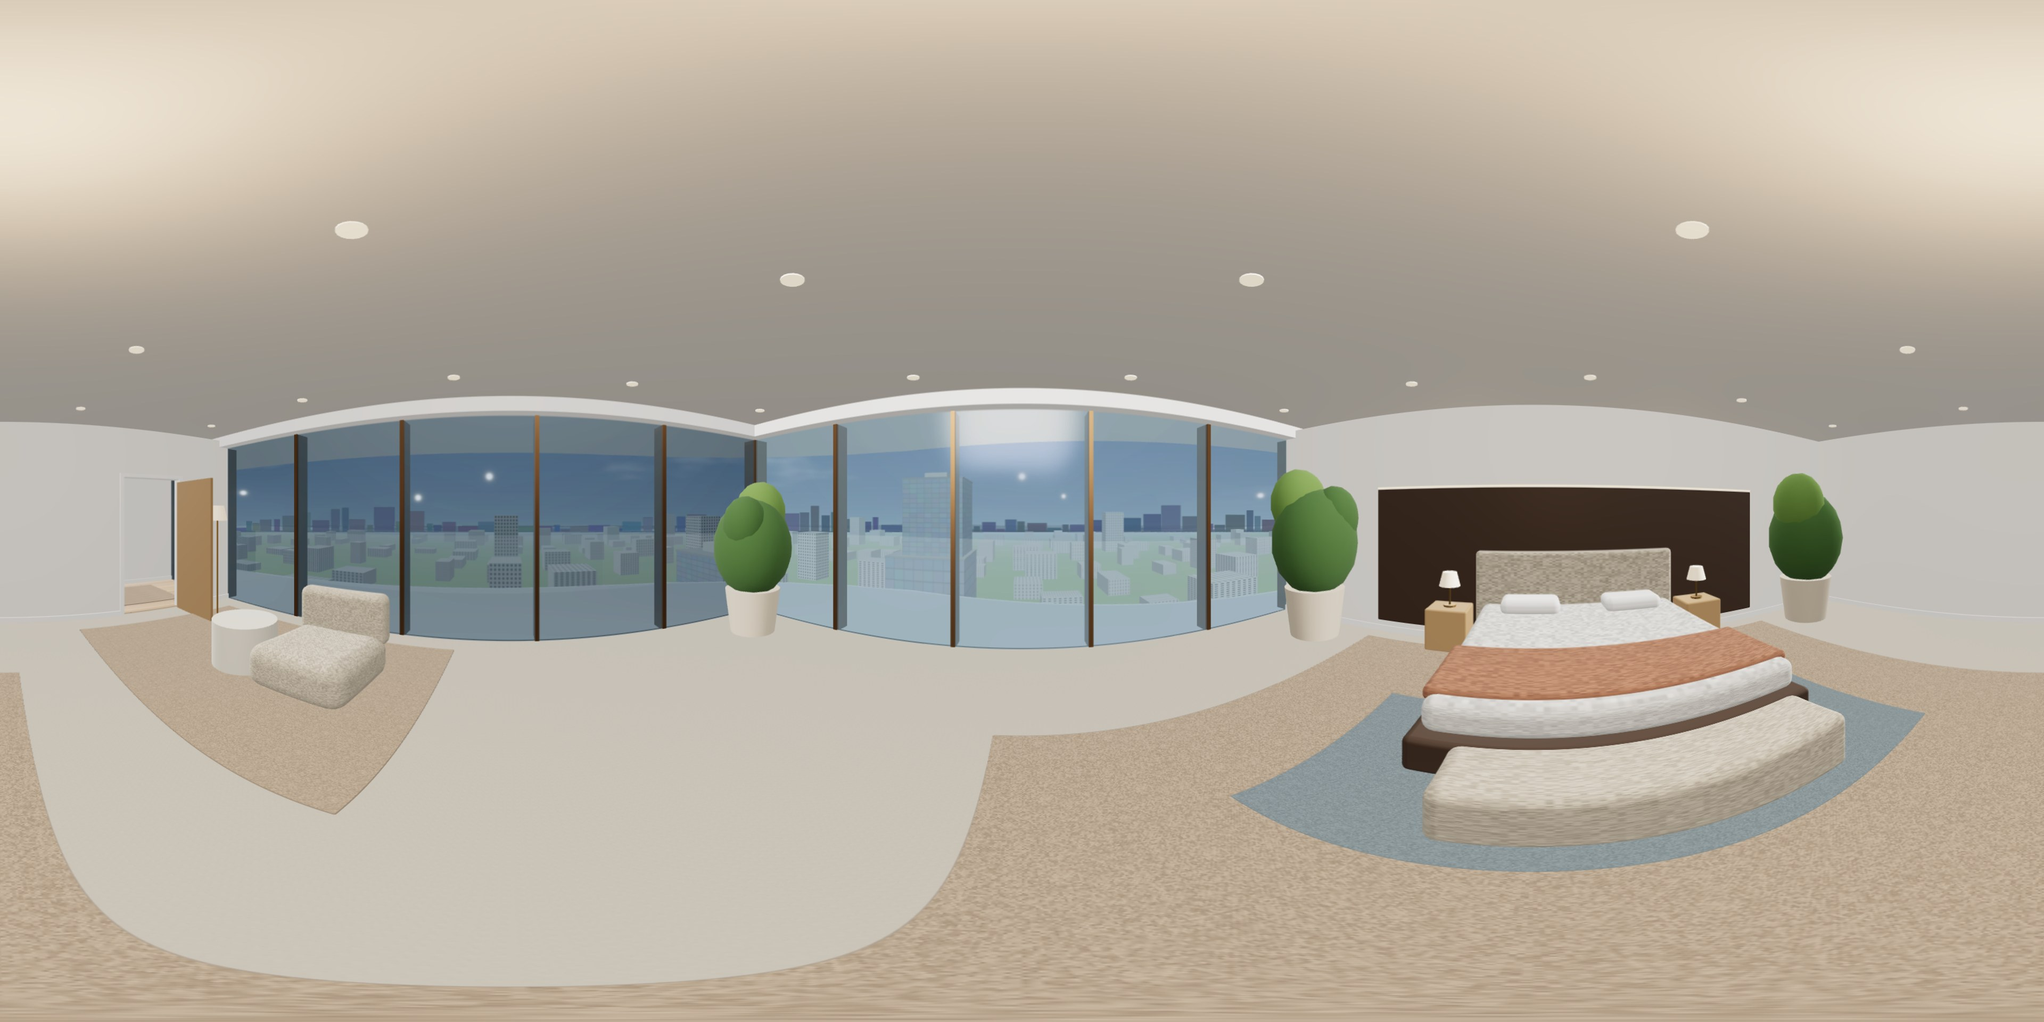
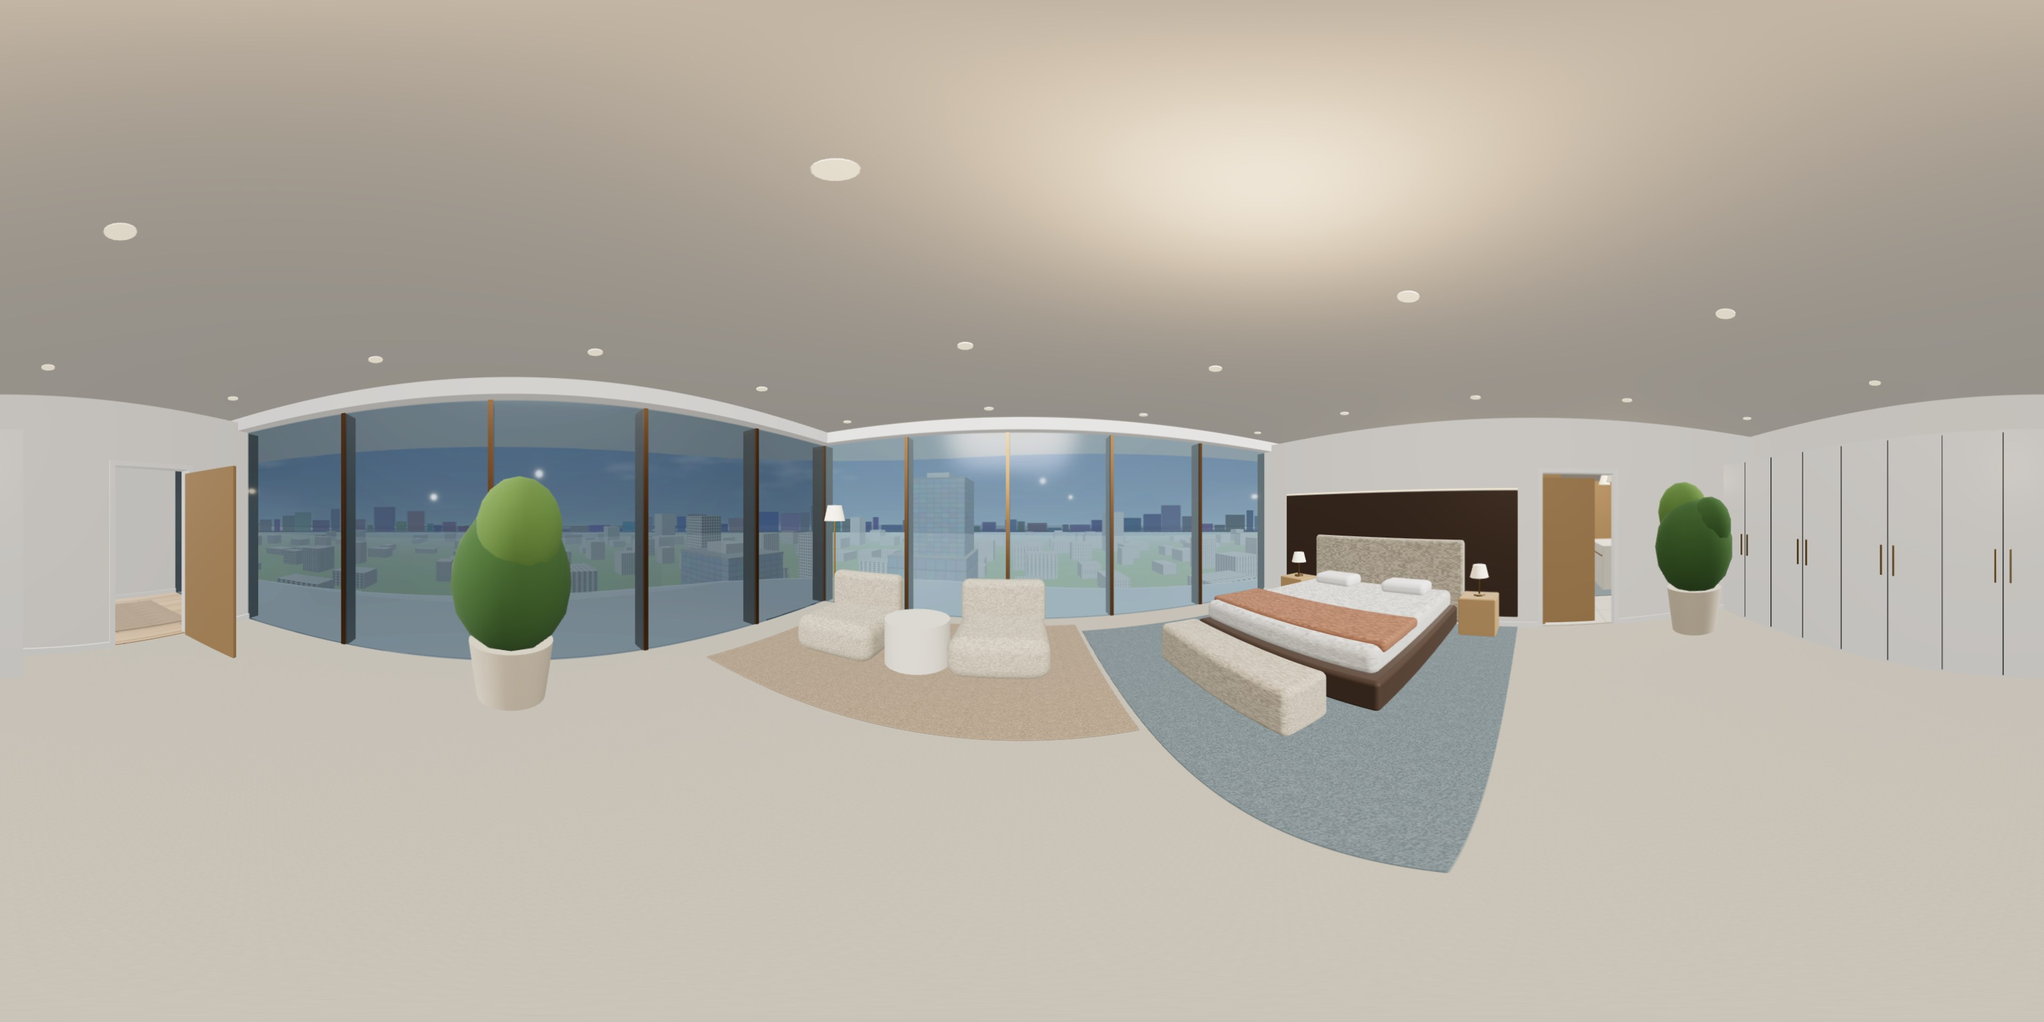
Halden penthouse: main suite flows bedroom to dressing room to bathroom, wardrobes in every bedroom, en-suite gets a walk-in shower, dressing room wardrobes no longer cover the doors (build 25)
Claude-Session: https://claude.ai/code/session_01BZrB8UmtVWgAVMjRzyvFMb

diff --git a/3d/engine.js b/3d/engine.js
@@ -510,7 +510,7 @@ const SOLVE = new Set(['open', 'living', 'kitchen', 'dining', 'bed', 'bath', 'st
 function furnishBest(q, B, segs, rooms, o) {
   const glassZ = []; segs.forEach(g => { if ((g.A === q) === (g.B === q) || (g.A && g.B && !OUTSIDE.has((g.A === q ? g.B : g.A).type))) return; if (g.A && g.B && g.kind !== 'slider') return; const d0 = g.A === q ? g.L - .55 : g.L, d1 = g.A === q ? g.L : g.L + .55; glassZ.push(g.axis === 'x' ? [d0, d1, g.a, g.b] : [g.a, g.b, d0, d1]); });
   const SOFT = new Set(['curtain', 'plant', 'plant2', 'pot', 'flower']);
-  const fixed = !SOLVE.has(q.type) || q.tall || q.look === 'kd' || q.look === 'dress' || q.look === 'spa' || (o.house && o.fi === 0 && q.type === 'hall'), zones = fixed ? [] : doorZones(q, segs);
+  const fixed = !SOLVE.has(q.type) || q.tall || q.look === 'kd' || q.look === 'dress' || q.look === 'spa' || q.look === 'suite' || q.look === 'guest' || q.look === 'ensuite' || (o.house && o.fi === 0 && q.type === 'hall'), zones = fixed ? [] : doorZones(q, segs);
   const tries = fixed ? [{}] : [{}, { swap: 1 }, { flip: 1 }, { flip: 1, swap: 1 }, { face: 'n' }, { face: 'n', flip: 1 }, { face: 's' }, { face: 's', flip: 1 }, { face: 'e' }, { face: 'e', flip: 1 }, { face: 'w' }, { face: 'w', flip: 1 }];
   const real = c => !((c.y1 - c.y0 < .05 && c.y0 < .1) || c.y0 > 2.0);          // not a rug, not something on the ceiling
   let best = null;
@@ -686,6 +686,26 @@ function furnish(q, B, rooms, o) {
       }
       if (U > 6 && V > 6) { rbox('rug', 6, .014, 3.4, U / 2, .007, V / 2, .005); longTable(U / 2, V / 2, 4.4, 12); [-1.4, 0, 1.4].forEach(k => pendant(U / 2 + k, V / 2, .55, .2)); rbox('darkWood', 3.2, .8, .45, U / 2, .4, V - .26, .02); artBack(U / 2, 2.4, 1.2, 1); plant(.6, .6, 1.4); return; } longTable(U / 2, V / 2, Math.min(2.2, U - 1), U < 3.4 ? 4 : 6); beams(); return; }
     case 'bed': {
+      const bedAt = (side, vc, bw, bl = 2.1) => { const hu = side ? U : 0, g = side ? -1 : 1, cu = hu + g * (.14 + bl / 2);          // headboard on a side wall
+        rbox('fabric', .12, 1.15, bw + .3, hu + g * .07, .62, vc, .05); rbox('darkWood', bl + .06, .28, bw + .12, cu, .16, vc, .04); rbox('linen', bl - .08, .24, bw, cu, .42, vc, .08); rbox('throw_', .7, .1, bw + .04, hu + g * (.14 + bl - .5), .52, vc, .04);
+        [-1, 1].forEach(k => { rbox('white', .36, .16, .6, hu + g * .45, .6, vc + k * bw / 4, .07); const sv = vc + k * (bw / 2 + .38); rbox('oak', .4, .5, .46, hu + g * .27, .25, sv, .02); cyl('brass', .07, .02, hu + g * .27, .51, sv); box('brass', .015, .26, .015, hu + g * .27, .64, sv); cyl('lampShade', .12, .16, hu + g * .27, .82, sv, .08); });
+        rbox('fabric', .42, .42, bw * .8, hu + g * (.14 + bl + .42), .22, vc, .06); rbox('rug2', bl + 1.3, .012, bw + 1.7, hu + g * (bl / 2 + .7), .006, vc, .005); };
+      const wardU = (u0, u1, back) => { const L = u1 - u0, wv = back ? V - .31 : .31, fv = back ? V - .604 : .604; box('white', L, 2.3, .58, (u0 + u1) / 2, 1.15, wv); const n = Math.round(L / .55); for (let k = 1; k < n; k++) box('black', .006, 2.25, .006, u0 + k * L / n, 1.15, fv); for (let k = 0; k < n; k++) box('brass', .014, .3, .014, u0 + (k + (k % 2 ? .12 : .88)) * L / n, 1.1, back ? fv - .012 : fv + .012); };
+      const wardV = (v0, v1, side) => { const L = v1 - v0, wu = side ? U - .31 : .31, fu = side ? U - .604 : .604; box('white', .58, 2.3, L, wu, 1.15, (v0 + v1) / 2); const n = Math.round(L / .55); for (let k = 1; k < n; k++) box('black', .006, 2.25, .006, fu, 1.15, v0 + k * L / n); for (let k = 0; k < n; k++) box('brass', .014, .3, .014, side ? fu - .012 : fu + .012, 1.1, v0 + (k + (k % 2 ? .12 : .88)) * L / n); };
+      if (q.look === 'suite') {          // principal bedroom: bed on the solid east wall looking at the glass, a wall of wardrobes on the hall wall, two chairs in the glass corner
+        box('darkWood', .06, 1.7, 3.8, U - .04, 1.0, 2.5); box('led', .02, .02, 3.8, U - .06, 1.87, 2.5); bedAt(1, 2.5, 2.1, 2.2);
+        wardU(3.0, U - .08, 1);
+        rbox('fabric', .9, .42, .9, 1.4, .23, 1.5, .14); rbox('fabric', .9, .5, .2, 1.4, .58, 1.1, .08); rbox('fabric', .9, .42, .9, 3.0, .23, 1.5, .14); rbox('fabric', .9, .5, .2, 3.0, .58, 1.1, .08); cyl('stone', .32, .5, 2.2, .25, 1.6); rbox('rug', 3.4, .012, 2.4, 2.2, .006, 1.55, .005); cyl('brass', .012, 1.5, .7, .75, .75); cyl('lampShade', .15, .22, .7, 1.55, .75, .1);
+        plant(U - .6, 6.6, 1.4); plant(.7, 4.6, 1.3);
+        return;
+      }
+      if (q.look === 'guest') {          // guest bedroom: bed on the solid west wall, wardrobes along the east wall clear of the en-suite door, a dressing table on the hall wall, a chair by the glass
+        bedAt(0, 4.0, 1.8);
+        wardV(2.4, 6.25, 1);
+        rbox('oak', 1.5, .78, .45, 3.9, .39, V - .26, .02); box('mirror', .9, 1.0, .02, 3.9, 1.5, V - .03); rbox('fabric', .45, .42, .45, 3.9, .22, V - .95, .1);
+        rbox('fabric', .8, .4, .8, 1.5, .22, 1.25, .12); rbox('fabric', .8, .5, .18, 1.5, .6, .9, .08); cyl('oak', .2, .5, 2.35, .25, 1.15); floorLamp(.6, .7); plant(3.6, .7, 1.2);
+        return;
+      }
       const bw = U > 6 ? 2.1 : U > 3.3 ? 1.65 : 1.4, bl = U > 6 ? 2.2 : 2.05, bu = U / 2, bv = V - bl / 2 - .12;
       rbox('darkWood', bw + .12, .28, bl + .06, bu, .16, bv, .04); rbox('linen', bw, .24, bl - .08, bu, .42, bv, .08); rbox('throw_', bw + .04, .1, .7, bu, .52, bv - bl / 2 + .5, .04);
       rbox('fabric', bw + .2, 1.05, .12, bu, .6, V - .07, .05); rbox('white', .6, .16, .36, bu - bw / 4, .6, V - .42, .07); rbox('white', .6, .16, .36, bu + bw / 4, .6, V - .42, .07);
@@ -706,6 +726,12 @@ function furnish(q, B, rooms, o) {
       return;
     }
     case 'bath': {
+      if (q.look === 'ensuite') {          // en-suite shower room: door on the west wall by the window, WC and vanity along the east wall, a full-width walk-in shower across the far end
+        box('white', U - .04, .05, 1.2, U / 2, .03, V - .6); box('glass', 1.55, 2.05, .02, U - .78, 1.03, V - 1.2); box('metal', .25, .02, .25, U / 2 + .3, Hc - .12, V - .6); cyl('brass', .015, 1.1, U - .08, 1.3, V - .6);
+        rbox('oak', .46, .5, 1.2, U - .25, .55, 2.0, .02); rbox('stone', .5, .05, 1.24, U - .25, .83, 2.0, .02); rbox('white', .34, .05, .5, U - .25, .875, 2.0, .04); cyl('brass', .014, .2, U - .08, .96, 2.0); box('mirror', .02, 1.0, 1.0, U - .03, 1.6, 2.0);
+        rbox('white', .58, .4, .38, U - .31, .2, .7, .08); box('brass', .02, 1.0, .5, .04, 1.2, 2.1); rbox('linen', .03, .5, .44, .07, 1.0, 2.1, .01); rbox('rug2', .6, .012, .9, 1.55, .006, 2.0, .005);
+        return;
+      }
       if (U * V > 14) {          // a principal bathroom: tub by the window on a stone plinth, double vanity on the back wall, walk-in shower at one end
         rbox('stone', 2.4, .06, 1.35, U / 2, .03, 1.15, .02); rbox('white', 1.8, .58, .85, U / 2, .35, 1.15, .3); cyl('brass', .02, .95, U / 2 + 1.05, .475, 1.15); rbox('oak', .4, .45, .4, U / 2 - 1.45, .23, 1.15, .04); rbox('linen', .32, .08, .3, U / 2 - 1.45, .5, 1.15, .02);
         const vl = Math.min(2.6, U - 2.4); rbox('oak', vl, .5, .5, U / 2, .55, V - .28, .02); rbox('stone', vl + .04, .06, .52, U / 2, .83, V - .28, .02);
@@ -734,11 +760,11 @@ function furnish(q, B, rooms, o) {
       return;
     }
     case 'utility': {
-      if (q.look === 'dress') {          // dressing room: full-height oak wardrobes on both long walls, clear of the door, a stone island and a long mirror on the end wall
-        const L = U - 1.3, lc = 1.2 + L / 2;
-        [V - .31, .31].forEach(v => { box('oak', L, 2.4, .6, lc, 1.2, v); for (let k = 1; k < L / .6; k++) box('black', .004, 2.3, .62, 1.2 + k * .6 - L / 2 + L / 2, 1.2, v); box('led', L, .02, .02, lc, 2.42, v); });
-        rbox('stone', 1.5, .9, .55, lc + .2, .45, V / 2, .02); box('brass', 1.4, .02, .02, lc + .2, .7, V / 2 - .28); rbox('rug2', 2.2, .012, 1.2, lc + .2, .006, V / 2, .005);
-        box('mirror', .03, 1.9, .8, U - .03, 1.1, V / 2); pendant(lc - .2, V / 2, .45, .14); pendant(lc + .6, V / 2, .45, .14);
+      if (q.look === 'dress') {          // dressing room between the bedroom (west door) and the bathroom (north door, west end): oak wardrobes in a U round the other three sides, a stone island, a long mirror by the bedroom door
+        const run = (L, cu, cv, alongU) => { box('oak', alongU ? L : .6, 2.4, alongU ? .6 : L, cu, 1.2, cv); const n = Math.round(L / .6); for (let k = 1; k < n; k++) alongU ? box('black', .005, 2.3, .62, cu - L / 2 + k * L / n, 1.2, cv) : box('black', .62, 2.3, .005, cu, 1.2, cv - L / 2 + k * L / n); };
+        run(U - .2, U / 2, V - .31, 1); run(2.8, 3.0, .31, 1); run(V - 1.22, U - .31, V / 2, 0); box('led', U - .2, .02, .02, U / 2, 2.42, V - .31); box('led', 2.8, .02, .02, 3.0, 2.42, .31);
+        rbox('stone', 1.6, .9, .6, 2.7, .45, V / 2, .02); box('brass', 1.5, .02, .02, 2.7, .7, V / 2 - .31); rbox('rug2', 2.4, .012, 1.3, 2.7, .006, V / 2, .005);
+        box('mirror', .03, 1.9, .8, .03, 1.1, 2.4); pendant(2.3, V / 2, .45, .14); pendant(3.1, V / 2, .45, .14);
         return;
       }
       if (U > 1.1 && V > 1) { const L = Math.min(U - .12, 1.9); box('white', L, .88, .6, L / 2 + .06, .44, V - .32); box('worktop', L + .02, .04, .62, L / 2 + .06, .9, V - .32); box('white', L, .6, .34, L / 2 + .06, 1.9, V - .19); } return; }

diff --git a/3d/pano/index.html b/3d/pano/index.html
@@ -63,12 +63,12 @@ const SPOTS = {
   bar:     { name: 'Bar',        pos: [6.5, 83.5, -1.0],    photo: CF + '985c48cb-13fe-46dc-855d-df84631a0154.jpg', face: [8, 83.5, -3.5],    links: [['pool', 'Up to the pool'], ['terrace', 'Terrace'], ['spa', 'Roof spa']] },
   pool:    { name: 'Pool',       pos: [7.4, 84.85, 4.95],   photo: CF + '651dd615-0938-4a2b-a031-b3d847ed0803.jpg', face: [14, 84.85, 7],     links: [['bar', 'Down to the bar'], ['terrace', 'Terrace']] },
   dining:  { name: 'Kitchen',    pos: [1.2, 80.35, 6.2],    photo: CF + 'fccb0113-0925-4a88-805f-183ca1834768.jpg', face: [-1, 80.35, 2],     links: [['gr', 'Great room'], ['b2', 'Bedroom 2'], ['b3', 'Bedroom 3']] },
-  b1:      { name: 'Main bedroom', pos: [-11.25, 80.35, -5.5], photo: CF + '8901c15e-58f6-41d3-bed5-e23b371d26c9.jpg', face: [-8, 80.35, -7],  links: [['bath', 'Bathroom'], ['dress', 'Dressing room'], ['gr', 'Great room']] },
+  b1:      { name: 'Main bedroom', pos: [-11.8, 80.35, -4.4], photo: CF + '8901c15e-58f6-41d3-bed5-e23b371d26c9.jpg', face: [-8, 80.35, -7],  links: [['bath', 'Bathroom'], ['dress', 'Dressing room'], ['gr', 'Great room']] },
   bath:    { name: 'Bathroom',   pos: [-5, 80.35, -6.5],    photo: CF + '0052796b-0f12-4358-8285-468d466acd0d.jpg', face: [-3, 80.35, -8],    links: [['b1', 'Main bedroom'], ['dress', 'Dressing room']] },
   dress:   { name: 'Dressing room', pos: [-6.7, 80.35, -2.75], photo: CF + 'bfc8a432-0720-4efe-9d4a-7085c0193f24.jpg', face: [-3.5, 80.35, -2.75], links: [['b1', 'Main bedroom'], ['bath', 'Bathroom']] },
-  b2:      { name: 'Bedroom 2',  pos: [5.5, 80.35, -5],     photo: CF + 'b22b2e5f-e98c-451a-8fa8-bfcd052d28f8.jpg', face: [7, 80.35, -8],     links: [['bath2', 'Shower room'], ['b3', 'Bedroom 3'], ['dining', 'Kitchen']] },
+  b2:      { name: 'Bedroom 2',  pos: [6.4, 80.35, -6.0],     photo: CF + 'b22b2e5f-e98c-451a-8fa8-bfcd052d28f8.jpg', face: [7, 80.35, -8],     links: [['bath2', 'Shower room'], ['b3', 'Bedroom 3'], ['dining', 'Kitchen']] },
   b3:      { name: 'Bedroom 3',  pos: [13.6, 80.35, -2.2],  photo: CF + 'bf404078-fe54-4e49-806e-ceedb2c1117c.jpg', face: [12, 80.35, -7],    links: [['b2', 'Bedroom 2'], ['dining', 'Kitchen']] },
-  bath2:   { name: 'Shower room', pos: [9.75, 80.35, -7],   photo: CF + '21d890b7-fbb8-43b7-9607-f33197c2a2bd.jpg', face: [9.75, 80.35, -9], links: [['b2', 'Bedroom 2']] },
+  bath2:   { name: 'Shower room', pos: [9.5, 80.35, -7.3],   photo: CF + '21d890b7-fbb8-43b7-9607-f33197c2a2bd.jpg', face: [9.75, 80.35, -9], links: [['b2', 'Bedroom 2']] },
   spa:     { name: 'Roof spa',   pos: [10.5, 83.5, -6.5],   photo: CF + '03376625-803e-4295-9058-67169ea97d2c.jpg', face: [5, 83.5, -6.5],   links: [['landing', 'Landing'], ['bar', 'The bar']] },
   garden:  { name: 'Fire pit',   pos: [-9, 83.5, -4],       photo: CF + '282c1fd5-9681-4de8-b449-229f3af96079.jpg', face: [-11, 83.5, -2.5],    links: [['landing', 'Landing'], ['terrace', 'Terrace']] },
 };

diff --git a/3d/buildings.js b/3d/buildings.js
@@ -62,8 +62,8 @@ export function tower() {
     r('core', 'core', -2.5, -9, 5, 8, { name: 'Private lift and stairs' }),
     pq('hall', 'hall', -15, -1, 30, 2, 'Gallery'),
     pq('liv', 'open', -15, 1, 12, 8, 'Great room', { tall: true }), pq('dining', 'dining', -3, 1, 12, 8, 'Kitchen and dining', { look: 'kd' }), pq('cinema', 'living', 9, 1, 6, 8, 'Cinema', { look: 'cinema' }),
-    pq('b1', 'bed', -15, -9, 7.5, 8, 'Main bedroom'), pq('bath', 'bath', -7.5, -9, 5, 4.5, 'Main bathroom'), pq('dress', 'utility', -7.5, -4.5, 5, 3.5, 'Dressing room', { look: 'dress' }),
-    pq('b2', 'bed', 2.5, -9, 6, 8, 'Bedroom 2'), pq('bath2', 'bath', 8.5, -9, 2.5, 4, 'Bathroom 2'), pq('laundry', 'utility', 8.5, -5, 2.5, 4, 'Laundry'), pq('b3', 'bed', 11, -9, 4, 8, 'Bedroom 3'),
+    pq('b1', 'bed', -15, -9, 7.5, 8, 'Main bedroom', { look: 'suite' }), pq('bath', 'bath', -7.5, -9, 5, 4.5, 'Main bathroom'), pq('dress', 'utility', -7.5, -4.5, 5, 3.5, 'Dressing room', { look: 'dress' }),
+    pq('b2', 'bed', 2.5, -9, 6, 8, 'Bedroom 2', { look: 'guest' }), pq('bath2', 'bath', 8.5, -9, 2.5, 4, 'Shower room', { look: 'ensuite' }), pq('laundry', 'utility', 8.5, -5, 2.5, 4, 'Laundry'), pq('b3', 'bed', 11, -9, 4, 8, 'Bedroom 3'),
   ];
   const sky26 = () => [
     r('core', 'core', -2.5, -9, 5, 8, { name: 'Private lift and stairs' }),
@@ -130,7 +130,7 @@ export function tower() {
   return {
     key: 'tower', name: 'Halden Tower', place: 'Central Milton Keynes',
     blurb: '26 storeys wrapped in rippling white balconies, no two floors the same. 115 apartments, four penthouses and one home across the top two levels.',
-    style: 'glass', story: { floor: 25, room: '25.03-liv', hours: [[0, 7.5], [.136, 12], [.26, 17.5], [.33, 19.5], [.434, 21.5], [.5, 30.75], [.6, 33], [.72, 37], [.81, 40.5], [.895, 43.4], [.965, 44.25], [1, 45.5]] }, props: '/3d/props/halden_props.glb', wallKind: { '25.03-dining|25.03-liv': 'none', '25.03-stairtop|25.03-void': 'none' }, autoDoor: ['25.03-poolwalk|25.03-stairtop'], doorAt: { '25.03-hall|25.03-liv': 0.88, '25.03-dining|25.03-hall': 0.08 }, floorH: H, size: [W, D], floors, units,
+    style: 'glass', story: { floor: 25, room: '25.03-liv', hours: [[0, 7.5], [.136, 12], [.26, 17.5], [.33, 19.5], [.434, 21.5], [.5, 30.75], [.6, 33], [.72, 37], [.81, 40.5], [.895, 43.4], [.965, 44.25], [1, 45.5]] }, props: '/3d/props/halden_props.glb', wallKind: { '25.03-b1|25.03-dress': 'door', '25.03-dress|25.03-hall': 'solid', '25.03-dining|25.03-liv': 'none', '25.03-stairtop|25.03-void': 'none' }, autoDoor: ['25.03-poolwalk|25.03-stairtop'], doorAt: { '25.03-bath|25.03-dress': .12, '25.03-hall|25.03-liv': 0.88, '25.03-dining|25.03-hall': 0.08 }, floorH: H, size: [W, D], floors, units,
     site: { kind: 'city', water: false, park: 's' },
     roof: 'crown', startHour: 18.5,
     spec: {

diff --git a/offplan/dev.js b/offplan/dev.js
@@ -1,6 +1,6 @@
 // Off-plan development page. One template for any development: a tower, a block of flats or a single house.
 // Plans and homes come from /3d/buildings.js, words and pictures from content.js, and the 3D model opens on tap.
-import * as BUILD from '/3d/buildings.js?v=24';
+import * as BUILD from '/3d/buildings.js?v=25';
 import { CONTENT } from './content.js?v=8';
 
 const OUT = new Set(['balcony', 'terrace']), SHARED = new Set(['corridor', 'lobby', 'core']);
@@ -29,7 +29,7 @@ export function mount(key) {
       <iframe class="story-frame" title="${esc(D.name)} being built as you scroll" tabindex="-1" aria-hidden="true"></iframe>
       <div class="story-shade"></div>
       <div class="story-mist" data-mist></div>
-      <div class="cap cap-title" data-cap="-1,.08"><p class="kicker">${esc(D.place)}</p><h1>${esc(D.name)}</h1><p class="cue">Scroll <span class="build">build 24</span></p></div>
+      <div class="cap cap-title" data-cap="-1,.08"><p class="kicker">${esc(D.place)}</p><h1>${esc(D.name)}</h1><p class="cue">Scroll <span class="build">build 25</span></p></div>
       <div class="cap cap-rise" data-cap=".13,.4"><p class="rise" data-rise></p><dl class="numbers">${C.numbers.slice(0, 3).map(([n, l]) => `<div><dt>${esc(l)}</dt><dd>${esc(n)}</dd></div>`).join('')}</dl></div>
       <div class="cap cap-line" data-cap=".44,.57"><p>${esc(C.tagline)}</p></div>
       <div class="cap cap-line" data-cap=".61,.74"><p class="kicker">${esc(C.film[0])}</p><p>${esc(C.film[1])}</p></div>

diff --git a/3d/tower/index.html b/3d/tower/index.html
@@ -10,7 +10,7 @@
 <link rel="icon" href="/favicon.svg" type="image/svg+xml">
 <link rel="preconnect" href="https://fonts.gstatic.com" crossorigin>
 <link rel="stylesheet" href="https://fonts.googleapis.com/css2?family=Cormorant+Garamond:wght@400;500;600&amp;family=Schibsted+Grotesk:wght@400;500;600&amp;display=swap">
-<link rel="stylesheet" href="/3d/viewer.css?v=24">
+<link rel="stylesheet" href="/3d/viewer.css?v=25">
 <script type="importmap">{"imports":{"three":"/3d/lib/three.module.js"}}</script>
 </head>
 <body>
@@ -72,12 +72,12 @@
   <div class="nogl" data-nogl><p>This demo needs WebGL, which this browser has switched off.</p></div>
 </main>
 <script type="module">
-import { run, loadProps } from '/3d/engine.js?v=24';
-import { tower } from '/3d/buildings.js?v=24';
+import { run, loadProps } from '/3d/engine.js?v=25';
+import { tower } from '/3d/buildings.js?v=25';
 const root = document.getElementById('rv'), q = new URLSearchParams(location.search);
 if (q.has('embed')) root.classList.add('embed');
 try {
-  const data = tower(); if (data.props) await loadProps(data.props + '?v=24');
+  const data = tower(); if (data.props) await loadProps(data.props + '?v=25');
   run(data, root);
   // deep links from the development site: ?unit=12.03 opens that home, ?floor=12 opens a floor, &walk=1 steps inside
   const want = q.get('unit') || q.get('floor') || q.get('time') || q.get('walk');

diff --git a/3d/block/index.html b/3d/block/index.html
@@ -10,7 +10,7 @@
 <link rel="icon" href="/favicon.svg" type="image/svg+xml">
 <link rel="preconnect" href="https://fonts.gstatic.com" crossorigin>
 <link rel="stylesheet" href="https://fonts.googleapis.com/css2?family=Cormorant+Garamond:wght@400;500;600&amp;family=Schibsted+Grotesk:wght@400;500;600&amp;display=swap">
-<link rel="stylesheet" href="/3d/viewer.css?v=24">
+<link rel="stylesheet" href="/3d/viewer.css?v=25">
 <script type="importmap">{"imports":{"three":"/3d/lib/three.module.js"}}</script>
 </head>
 <body>
@@ -72,8 +72,8 @@
   <div class="nogl" data-nogl><p>This demo needs WebGL, which this browser has switched off.</p></div>
 </main>
 <script type="module">
-import { run } from '/3d/engine.js?v=24';
-import { block } from '/3d/buildings.js?v=24';
+import { run } from '/3d/engine.js?v=25';
+import { block } from '/3d/buildings.js?v=25';
 const root = document.getElementById('rv'), q = new URLSearchParams(location.search);
 if (q.has('embed')) root.classList.add('embed');
 try {

diff --git a/3d/house/index.html b/3d/house/index.html
@@ -10,7 +10,7 @@
 <link rel="icon" href="/favicon.svg" type="image/svg+xml">
 <link rel="preconnect" href="https://fonts.gstatic.com" crossorigin>
 <link rel="stylesheet" href="https://fonts.googleapis.com/css2?family=Cormorant+Garamond:wght@400;500;600&amp;family=Schibsted+Grotesk:wght@400;500;600&amp;display=swap">
-<link rel="stylesheet" href="/3d/viewer.css?v=24">
+<link rel="stylesheet" href="/3d/viewer.css?v=25">
 <script type="importmap">{"imports":{"three":"/3d/lib/three.module.js"}}</script>
 </head>
 <body>
@@ -72,8 +72,8 @@
   <div class="nogl" data-nogl><p>This demo needs WebGL, which this browser has switched off.</p></div>
 </main>
 <script type="module">
-import { run } from '/3d/engine.js?v=24';
-import { house } from '/3d/buildings.js?v=24';
+import { run } from '/3d/engine.js?v=25';
+import { house } from '/3d/buildings.js?v=25';
 const root = document.getElementById('rv'), q = new URLSearchParams(location.search);
 if (q.has('embed')) root.classList.add('embed');
 try {

diff --git a/offplan/ashcombe-house/index.html b/offplan/ashcombe-house/index.html
@@ -14,6 +14,6 @@
 <body>
 <main id="dev"></main>
 <noscript><p style="padding:40px">This page needs JavaScript to show the plans and the 3D model.</p></noscript>
-<script type="module">import { mount } from '/offplan/dev.js?v=24'; mount('house');</script>
+<script type="module">import { mount } from '/offplan/dev.js?v=25'; mount('house');</script>
 </body>
 </html>

diff --git a/offplan/halden-tower/index.html b/offplan/halden-tower/index.html
@@ -14,6 +14,6 @@
 <body>
 <main id="dev"></main>
 <noscript><p style="padding:40px">This page needs JavaScript to show the plans and the 3D model.</p></noscript>
-<script type="module">import { mount } from '/offplan/dev.js?v=24'; mount('tower');</script>
+<script type="module">import { mount } from '/offplan/dev.js?v=25'; mount('tower');</script>
 </body>
 </html>

diff --git a/offplan/wharf-row/index.html b/offplan/wharf-row/index.html
@@ -14,6 +14,6 @@
 <body>
 <main id="dev"></main>
 <noscript><p style="padding:40px">This page needs JavaScript to show the plans and the 3D model.</p></noscript>
-<script type="module">import { mount } from '/offplan/dev.js?v=24'; mount('block');</script>
+<script type="module">import { mount } from '/offplan/dev.js?v=25'; mount('block');</script>
 </body>
 </html>
